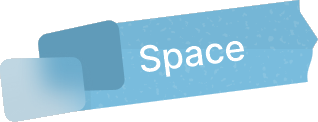
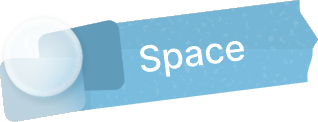
Bake Citta-style frosted orb onto Cosmo and Spaces sticker front layer.

Changed region(s): [[0.0, 0.2213, 0.283, 0.7869]]

diff --git a/css/site.css b/css/site.css
@@ -5015,109 +5015,33 @@ body.home-v2 .hp-lead { color: #3f3f46; }
   color: #3c7a94;
 }
 
-/* Figma poster-ui badge stickers — keep original icon art */
-.hp-pillar-markwrap {
+/* Figma poster-ui badge stickers — Cosmo/Spaces front glass baked as Citta orb */
+.hp-pillar-sticker {
   position: absolute;
   left: -14px;
   top: -24px;
-  width: 168px;
-  height: 64px;
-  pointer-events: none;
-  z-index: 2;
-}
-.hp-pillar--citta .hp-pillar-markwrap {
-  display: none; /* citta sticker already has its glass orb */
-}
-.hp-pillar-sticker {
-  position: absolute;
-  left: 0;
-  top: 0;
   width: auto;
   height: auto;
   max-width: none;
   display: block;
+  pointer-events: none;
   user-select: none;
+  z-index: 2;
 }
 .hp-pillar--citta .hp-pillar-sticker {
-  position: absolute;
   left: -12px;
   top: -22px;
   width: 152px;
-  z-index: 2;
-  pointer-events: none;
 }
-.hp-pillar--cosmo .hp-pillar-markwrap {
+.hp-pillar--cosmo .hp-pillar-sticker {
   left: -14px;
   top: -20px;
   width: 155px;
-  height: 52px;
 }
-.hp-pillar--cosmo .hp-pillar-sticker {
-  width: 155px;
-}
-.hp-pillar--spaces .hp-pillar-markwrap {
+.hp-pillar--spaces .hp-pillar-sticker {
   left: -20px;
   top: -28px;
   width: 168px;
-  height: 64px;
-}
-.hp-pillar--spaces .hp-pillar-sticker {
-  width: 168px;
-}
-/* Front glass = Citta circular frosted orb (topmost layer, no icon art) */
-.hp-pillar-lens {
-  position: absolute;
-  z-index: 3;
-  pointer-events: none;
-  border-radius: 50%;
-  background:
-    radial-gradient(circle at 32% 28%,
-      rgba(255, 255, 255, .92) 0%,
-      rgba(236, 246, 252, .72) 38%,
-      rgba(196, 228, 242, .55) 72%,
-      rgba(170, 214, 236, .48) 100%);
-  -webkit-backdrop-filter: blur(10px) saturate(1.25);
-  backdrop-filter: blur(10px) saturate(1.25);
-  border: 1.5px solid rgba(255, 255, 255, .78);
-  box-shadow:
-    inset 0 1px 2px rgba(255, 255, 255, 1),
-    inset 0 -4px 10px rgba(116, 193, 230, .22),
-    0 0 0 1px rgba(148, 198, 222, .18),
-    0 4px 14px rgba(100, 167, 204, .28);
-}
-.hp-pillar-lens::before,
-.hp-pillar-lens::after {
-  content: "";
-  position: absolute;
-  border-radius: 999px;
-  background: rgba(255, 255, 255, .95);
-  box-shadow: 0 0 5px rgba(255, 255, 255, .55);
-}
-.hp-pillar-lens::before {
-  left: 26%;
-  top: 28%;
-  width: 4px;
-  height: 15px;
-}
-.hp-pillar-lens::after {
-  left: 40%;
-  top: 40%;
-  width: 3px;
-  height: 10px;
-  opacity: .62;
-}
-.hp-pillar--cosmo .hp-pillar-lens {
-  left: 0;
-  top: 0;
-  width: 42px;
-  height: 42px;
-}
-.hp-pillar--spaces .hp-pillar-lens {
-  left: -1px;
-  top: 6px;
-  width: 44px;
-  height: 44px;
-  transform: rotate(-3deg);
 }
 
 .hp-pillar-desc {

diff --git a/index.html b/index.html
@@ -16,7 +16,7 @@
   <meta name="twitter:card" content="summary_large_image">
   <link rel="preconnect" href="https://fonts.googleapis.com">
   <link rel="preconnect" href="https://fonts.gstatic.com" crossorigin>
-  <link rel="stylesheet" href="css/site.css?v=home247">
+  <link rel="stylesheet" href="css/site.css?v=home248">
   <script>
   try {
     var _lang = localStorage.getItem("symbion-lang");
@@ -75,19 +75,13 @@
         </li>
         <li>
           <a class="hp-pillar hp-pillar--cosmo" href="product/cosmo.html" aria-label="Cosmo">
-            <span class="hp-pillar-markwrap" aria-hidden="true">
-              <img class="hp-pillar-sticker" src="assets/pillars/cosmo-sticker.png" width="155" height="52" alt="">
-              <span class="hp-pillar-lens"></span>
-            </span>
+            <img class="hp-pillar-sticker" src="assets/pillars/cosmo-sticker.png?v=247" width="155" height="52" alt="" aria-hidden="true">
             <span class="hp-pillar-desc" data-i18n="hpPillarCosmo">承载身份、知识与可复用的能力。</span>
           </a>
         </li>
         <li>
           <a class="hp-pillar hp-pillar--spaces" href="product/spaces.html" aria-label="Spaces">
-            <span class="hp-pillar-markwrap" aria-hidden="true">
-              <img class="hp-pillar-sticker" src="assets/pillars/space-sticker.png" width="168" height="64" alt="">
-              <span class="hp-pillar-lens"></span>
-            </span>
+            <img class="hp-pillar-sticker" src="assets/pillars/space-sticker.png?v=247" width="168" height="64" alt="" aria-hidden="true">
             <span class="hp-pillar-desc" data-i18n="hpPillarSpaces">人与 AI 同场协作，一起推进工作。</span>
           </a>
         </li>
@@ -132,6 +126,6 @@
   <script src="https://cdn.jsdelivr.net/npm/gsap@3.12.7/dist/gsap.min.js"></script>
   <script src="https://cdn.jsdelivr.net/npm/gsap@3.12.7/dist/ScrollTrigger.min.js"></script>
   <script src="https://cdn.jsdelivr.net/npm/lenis@1.1.20/dist/lenis.min.js"></script>
-  <script src="js/site.js?v=home247"></script>
+  <script src="js/site.js?v=home248"></script>
 </body>
 </html>
